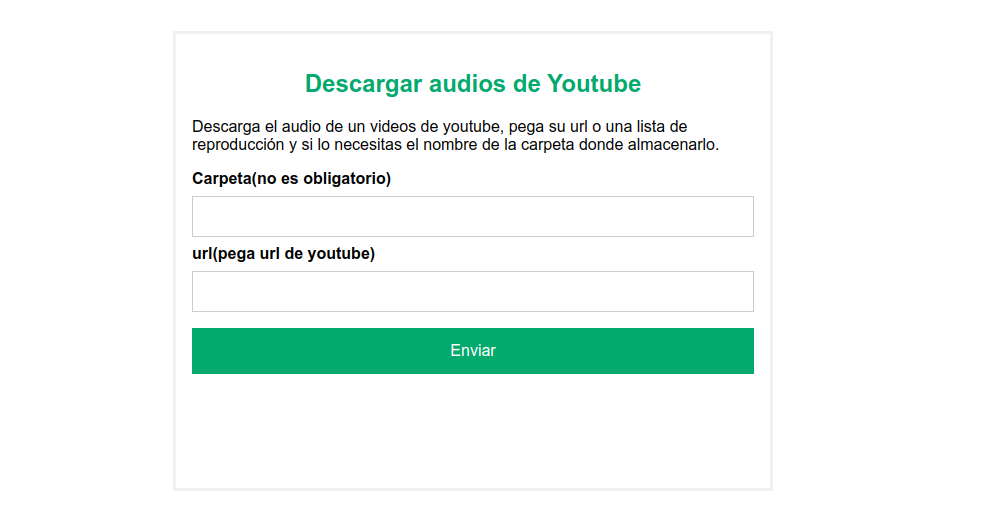
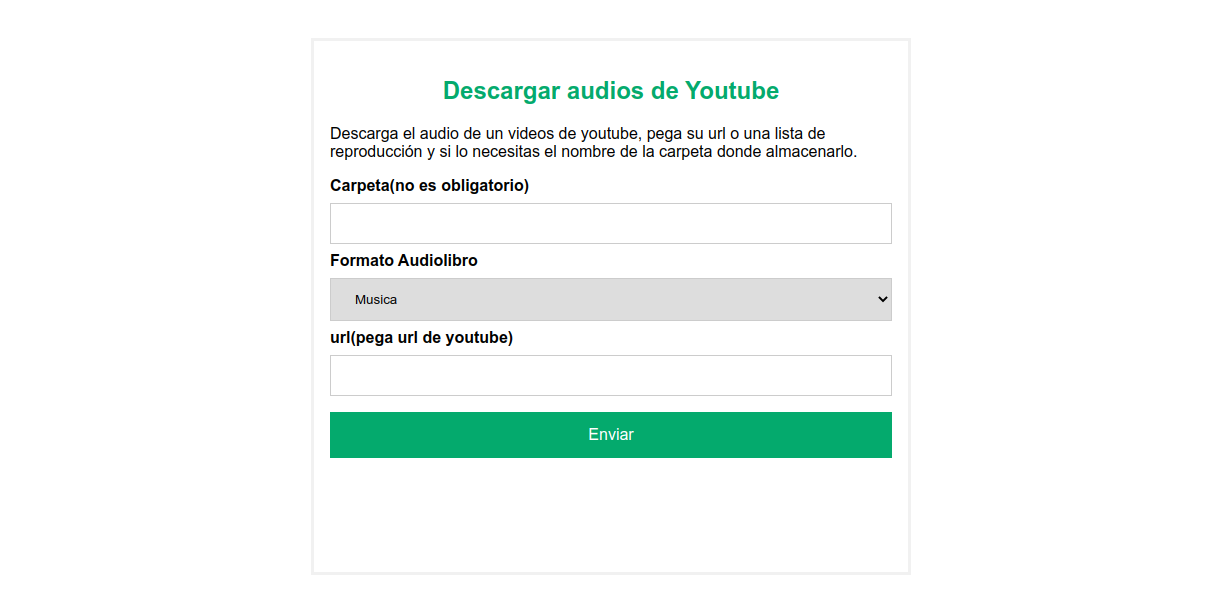
changes in metadata and select music and audiobooks

Changed region(s): [[0.1831, 0.2154, 0.7325, 0.5846], [0.1831, 0.6154, 0.7935, 0.7692], [0.3052, 0.1231, 0.6714, 0.1846]]

diff --git a/app/templates/index.html b/app/templates/index.html
@@ -17,8 +17,8 @@
 			<input type="text" id="folder" name="folder">
 			<label for="type_sound">Formato Audiolibro</label>
 			<select id="type_sound" name="type_sound">
-				<option value="audiobooks">Audiolibro</option>
 				<option value="musics">Musica</option>
+				<option value="audiobooks">Audiolibro</option>
 			</select>
 			<label for="url">url(pega url de youtube)</label>
 			<input type="text" id="url" name="url">

diff --git a/app/app.py b/app/app.py
@@ -10,8 +10,6 @@ folder_base="youtube_audios"
 
 def download_video_mp3(url,folder):
     folder1 = folder
-    if "audiobooks" in folder: 
-        folder1 = folder + "/" + '%(title)s'+ "/"
     path = folder1 + '%(title)s' + '.%(ext)s'
     ydl_opts = {
         'outtmpl': path, 
@@ -19,7 +17,7 @@ def download_video_mp3(url,folder):
         'ignoreerrors': True,
         'writethumbnail': True,
         # 'postprocessor_args': ['-metadata', "album= '%(title)s'"],    
-        'postprocessors': [{  # Extract audio using ffmpeg
+        'postprocessors': [{ 
             'key': 'FFmpegExtractAudio',
             'preferredcodec': 'm4a',
             },
@@ -30,18 +28,24 @@ def download_video_mp3(url,folder):
     with yt_dlp.YoutubeDL(ydl_opts) as ydl:
         info = ydl.extract_info(url, download=False)
         ydl.download(url)
+        print("----------------")
+        name=info['title'].replace("|", "_")
+        folder2 = folder
+        path2 = folder2 + name + '.'+info['ext'] 
+        if "audiobooks" in folder: 
+            folder2 = folder  + name + "/" 
+            os.makedirs(folder2)
+            os.chown(folder2, 1000, 1000) 
+            new_path2 = folder2 + name + '.'+info['ext']  
+            os.rename(path2, new_path2)
+            path2=new_path2
 
-    folder2 = folder    
-    if "audiobooks" in folder: 
-        folder2 = folder + "/" + info['title']+ "/"  
-    path2 = folder2 + info['title'] + '.'+info['ext']  
-
-    tags = MP4(path2)
-    album=tags['©ART'][0]
-    if "audiobooks" in folder: 
-       album=tags['©nam'][0] 
-    tags['\xa9alb'] = f"{album}"
-    tags.save()    
+        tags = MP4(path2)
+        album=tags['©ART'][0]
+        if "audiobooks" in folder: 
+            album=tags['©nam'][0] 
+        tags['\xa9alb'] = f"{album}"
+        tags.save()    
 
 
 
@@ -49,7 +53,6 @@ def download_video_mp3(url,folder):
 def index():
     if request.method == "POST":
         data = request.form
-        print(data)
         folder = data['folder'] if 'folder' in data else None
         url = data['url'] if 'url' in data else None
         type_sound = data['type_sound'] if 'type_sound' in data else None
@@ -57,7 +60,7 @@ def index():
         if url:
             if folder:
                 folder = unidecode.unidecode(folder).replace(" ", "_")
-                folder= path_exit+'/'+folder
+                folder= path_exit + folder
                 if not os.path.exists(folder):
                    os.makedirs(folder)
                    os.chown(folder, 1000, 1000)

diff --git a/README.md b/README.md
@@ -1,12 +1,13 @@
 # DESCARGA AUDIO YOUTUBE
 
 Se trata de sencilla aplicación de entorno servidor con interface web que nos permite descargar de Youtube en formato audio.
-Esta pensada para instalar en un rapsberry y poder disfrutar de servicio en casa. Esta probada en una Rasperry pi 4
+Esta pensada para instalar en un Raspberry y poder disfrutar de servicio en casa. Esta probada en una Raspberry pi 4
 
-Pega la url del video o de la lista de reproducción, introduce un nombre de carpeta si necesitas que se agrupen y descargará,
-el audio del video.
+Pega la url del video o de la lista de reproducción, introduce un nombre de carpeta si necesitas que se agrupen y descargará, el audio del video.
 
 ![screenshort](screenshort.png)
+
+Se le ha añadido alguna modificaciones para adaptarlo a mis necesidades, un selector de música o audiolibro, la diferencia es en la carpeta que los almacena y el los metadatos de album, están adaptados para gestionar los archivos de música con Navidrome y los archivos de audiobooks con Audiobooksself.
 
 Para correr la aplicación 
 
